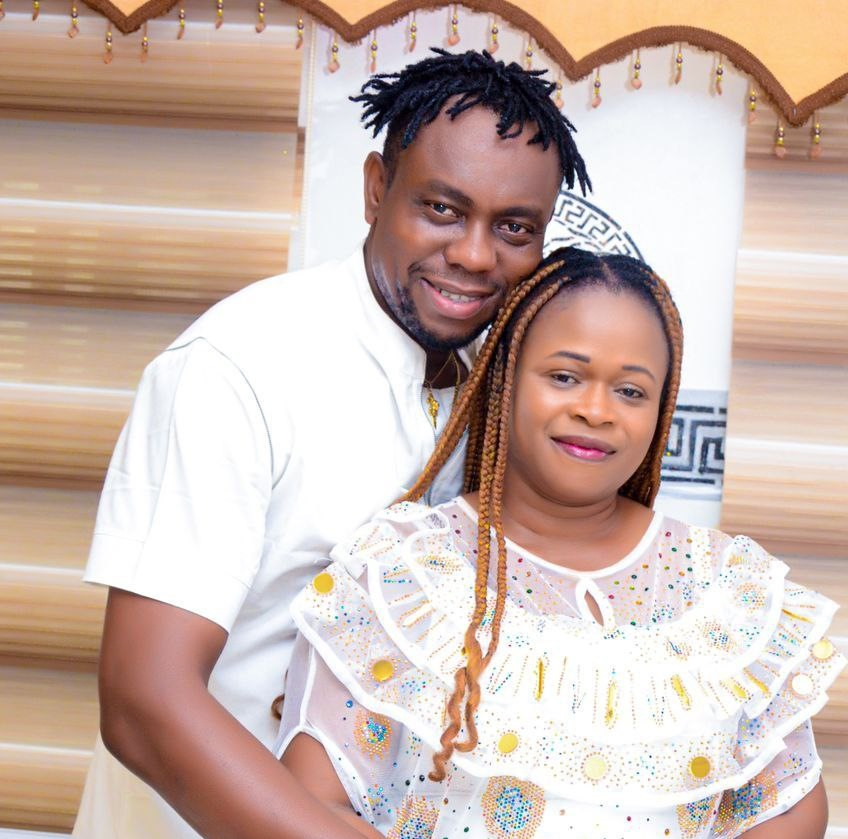
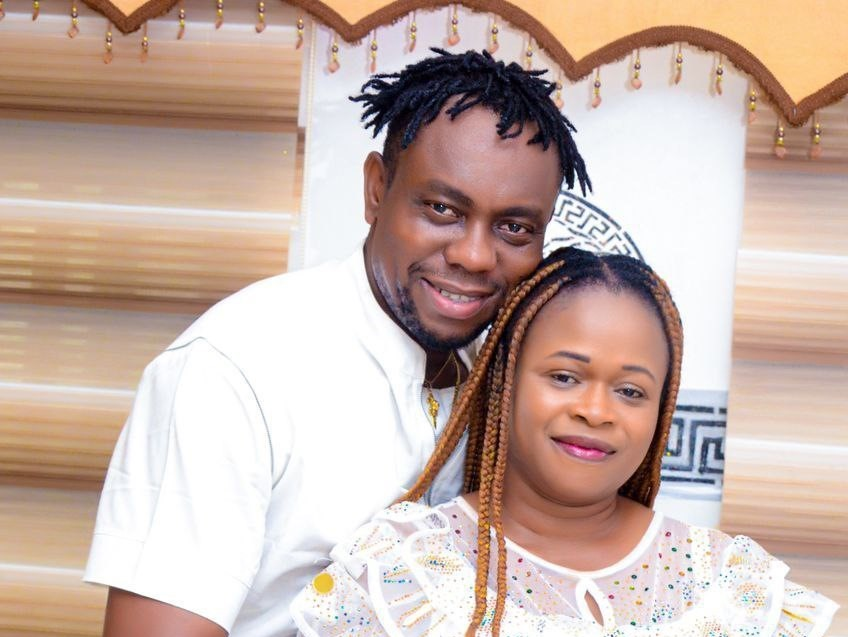
"Added new image to carousel and updated image file"

diff --git a/about.html b/about.html
@@ -72,6 +72,9 @@
                                 <div class="carousel-item">
                                     <img src="images/store-front.jpg" class="d-block w-100" alt="A family cooking together in the kitchen" style="aspect-ratio: 16/10; object-fit: cover;" loading="lazy">
                                 </div>
+                              <div class="carousel-item">
+                                    <img src="images/images/1 (0).jpg" class="d-block w-100" alt="A family cooking together in the kitchen" style="aspect-ratio: 16/10; object-fit: cover;" loading="lazy">
+                                </div>
                             </div>
                             <button class="carousel-control-prev" type="button" data-bs-target="#storeCarousel" data-bs-slide="prev">
                                 <span class="carousel-control-prev-icon" aria-hidden="true"></span>
